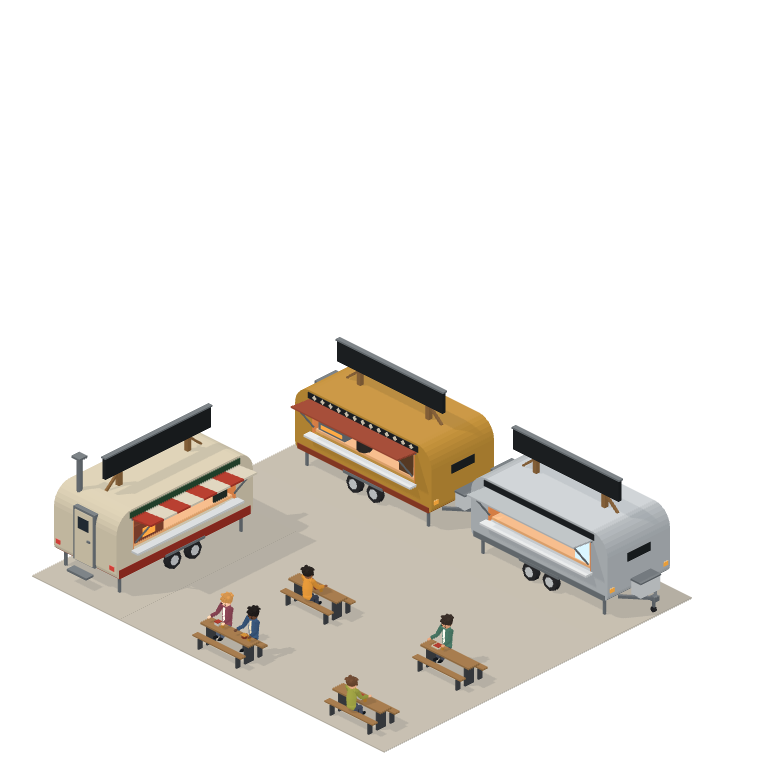
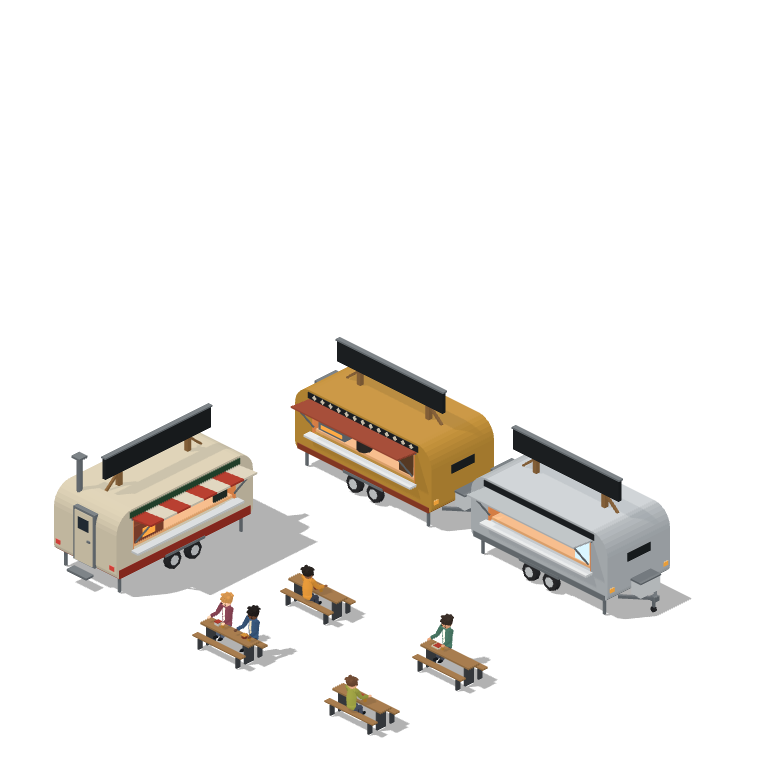
Food truck square: no pad of its own, so the city's paving shows under it; only the shadows stay
The square's ground is a shadow catcher (THREE.ShadowMaterial) and the trailers' own 4 x 2 pads are hidden in the
square, so the floor matches the plaza around it (Gustav, 2026-10-21).

Changed region(s): [[0.0312, 0.5625, 0.8438, 1.0]]

diff --git a/lib/city/models/cateItSquareStates.ts b/lib/city/models/cateItSquareStates.ts
@@ -41,13 +41,21 @@ const CREATE: Record<Truck, (options: Options) => THREE.Group> = {
 export function createCateItSquareModel(options: Options = {}): THREE.Group {
   const group = new THREE.Group();
   group.name = 'Food truck square';
-  group.add(box(SQUARE.w, PAD - 0.002, SQUARE.h, '#ddd6c8', 0, (PAD - 0.002) / 2, 0, { ...options, castShadow: false }));
+  // No pad of its own: the city draws its paving under the plot, so the ground stays transparent and only catches the
+  // shadows of the trucks, tables and guests (Gustav, 2026-10-21: the square's floor differed from the rest of the plaza)
+  const ground = new THREE.Mesh(new THREE.PlaneGeometry(SQUARE.w, SQUARE.h), new THREE.ShadowMaterial({ opacity: 0.3 }));
+  ground.rotation.x = -Math.PI / 2;
+  ground.position.y = 0.001;
+  ground.receiveShadow = true;
+  ground.name = 'shadow-catcher';
+  group.add(ground);
   for (const [truck, { at, yawDeg }] of Object.entries(TRUCKS) as [Truck, (typeof TRUCKS)[Truck]][]) {
     const model = CREATE[truck](options);
     const [x, z] = plan(at);
     model.position.set(x, 0, z);
     model.rotation.y = THREE.MathUtils.degToRad(yawDeg);
     model.name = `${truck}-trailer`;
+    model.traverse((o) => { if (o.name === 'Ground pad') o.visible = false; });   // the trailer's own 4 x 2 pad
     group.add(model);
   }
   for (const t of TABLES) {
